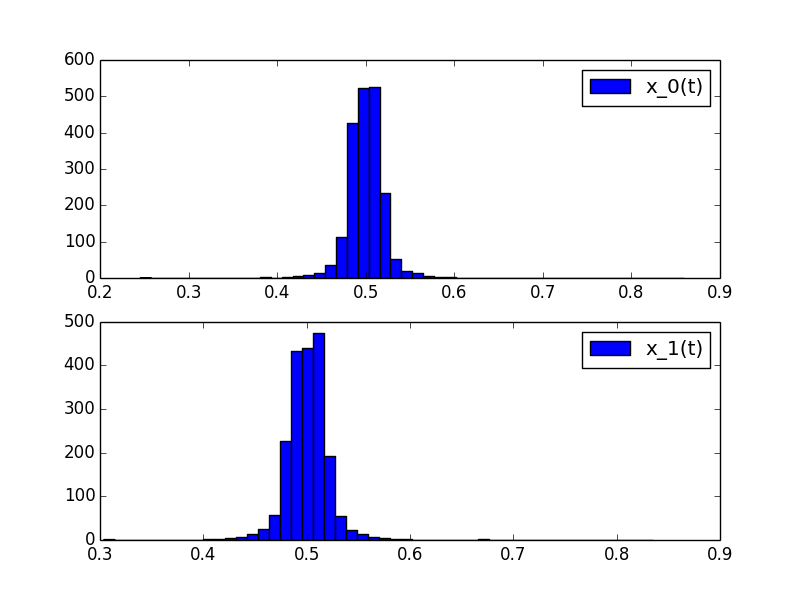
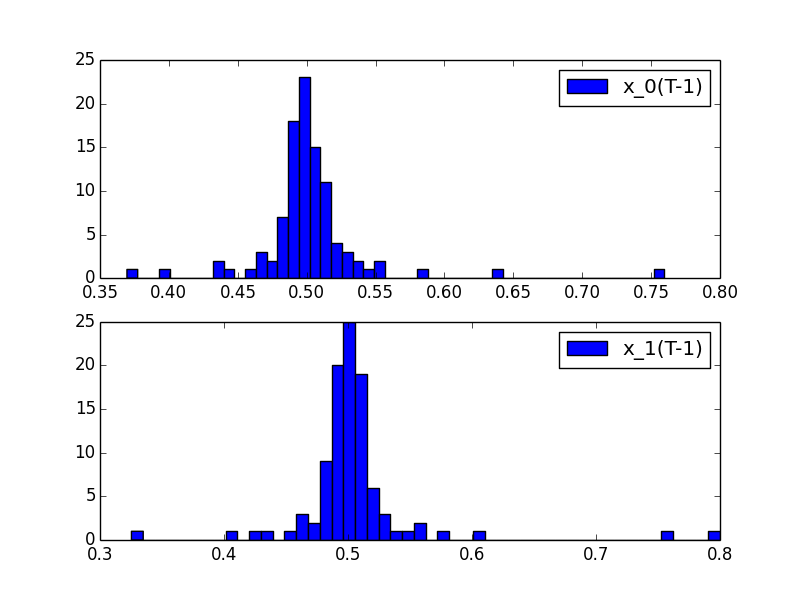
histogram

diff --git a/fictitious_hist.py b/fictitious_hist.py
@@ -1,0 +1,60 @@
+import matplotlib.pyplot as plt
+import random
+
+cycles = 2000  # number of cycles in one simulation
+times = 100 # number of simulations
+profits = [[1,-1], [-1, 1], [-1,1], [1, -1]] # matrix of profits
+x0 = random.uniform(0, 1) # the beginning belief of player0
+x1 = random.uniform(0, 1) # the beginning belief of player1
+num = 0  #saving png/pdf images with the name “fictitious_hist[num].png/pdf”
+#if num = None, images won’t be saved
+
+
+
+last_x0_values = []
+last_x1_values = []
+
+
+for t in range(times):
+	x0_values = []
+	x1_values = []
+	
+	for c in range(cycles):
+		x0_values.append(x0)
+		x1_values.append(x1)
+		
+		# decision of player0's act at c
+		if profits[0][0]*(1-x0)+profits[1][0]*x0 > profits[2][0]*(1-x0)+profits[3][0]*x0 :
+			a0 = 0
+		elif profits[0][0]*(1-x0)+profits[1][0]*x0 < profits[2][0]*(1-x0)+profits[3][0]*x0 :
+			a0 = 1
+		else :
+			a0 = random.choice([0,1])
+		
+		# decision of player1's act at c
+		if profits[0][1]*(1-x1)+profits[2][1]*x1 > profits[1][1]*(1-x1)+profits[3][1]*x1 :
+			a1 = 0
+		elif profits[0][1]*(1-x1)+profits[2][1]*x1 < profits[1][1]*(1-x1)+profits[3][1]*x1 :
+			a1 = 1
+		else :
+			a1 = random.choice([0,1])
+		
+		if c< cycles - 1:
+			#updating beliefs
+			x0 =  (a1 + x0*(t+1))/(t+2)
+			x1 =  (a0 + x1*(t+1))/(t+2)
+
+        last_x0_values.append(x0)
+        last_x1_values.append(x1)
+	
+
+for i, j in enumerate([last_x0_values, last_x1_values]) :
+    plt.subplot(2, 1, i+1)
+    plt.hist(j, bins=50, label='x_'+str(i)+'(T-1)')
+    plt.legend()
+	
+if num != None:
+    plt.savefig('fictitious_hist' + str(num) + '.png')
+    plt.savefig('fictitious_hist' + str(num) + '.pdf')
+
+plt.show()

diff --git a/fictitious.py b/fictitious.py
@@ -1,7 +1,7 @@
 import matplotlib.pyplot as plt
 import random
 
-times = 100  # number of cycles
+cycles = 100  # number of cycles
 profits = [[1,-1], [-1, 1], [-1,1], [1, -1]] # matrix of profits
 x0 = random.uniform(0, 1) # the beginning belief of player0
 x1 = random.uniform(0, 1) # the beginning belief of player1
@@ -12,11 +12,11 @@ num = 1  #saving png/pdf images with the name “fictitious[num].png/pdf”
 x0_values = []
 x1_values = []
 
-for t in range(times):
+for c in range(cycles):
 	x0_values.append(x0)
 	x1_values.append(x1)
 	
-	# decision of player0's act at time t
+	# decision of player0's act at c
 	if profits[0][0]*(1-x0)+profits[1][0]*x0 > profits[2][0]*(1-x0)+profits[3][0]*x0 :
 		a0 = 0
 	elif profits[0][0]*(1-x0)+profits[1][0]*x0 < profits[2][0]*(1-x0)+profits[3][0]*x0 :
@@ -24,7 +24,7 @@ for t in range(times):
 	else :
 		a0 = random.choice([0,1])
 	
-	# decision of player1's act at time t
+	# decision of player1's act at c
 	if profits[0][1]*(1-x1)+profits[2][1]*x1 > profits[1][1]*(1-x1)+profits[3][1]*x1 :
 		a1 = 0
 	elif profits[0][1]*(1-x1)+profits[2][1]*x1 < profits[1][1]*(1-x1)+profits[3][1]*x1 :
